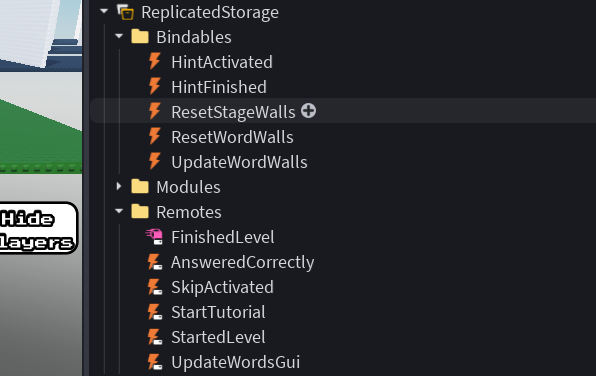
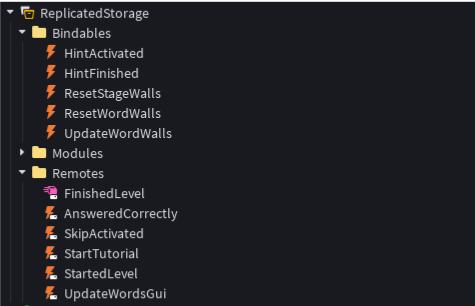
Update images and resume.

Changed region(s): [[0.0, 0.0, 1.0, 1.0]]

diff --git a/index.html b/index.html
@@ -29,7 +29,7 @@
             <a href="https://www.linkedin.com/in/ashton-reyes">
                 <i class="fab fa-linkedin"></i> LinkedIn
             </a>
-            <a href="https://drive.google.com/file/d/1CDVtAW4_1mj7nMfcftRv-QIqlhTqo0N9/view?usp=sharing">
+            <a href="https://drive.google.com/file/d/1x_1Sc3bhBwW9SULKYTxY2tcogev2kal-/view?usp=sharing">
                 <i class="fas fa-file-pdf"></i> Resume
             </a>
         </div>